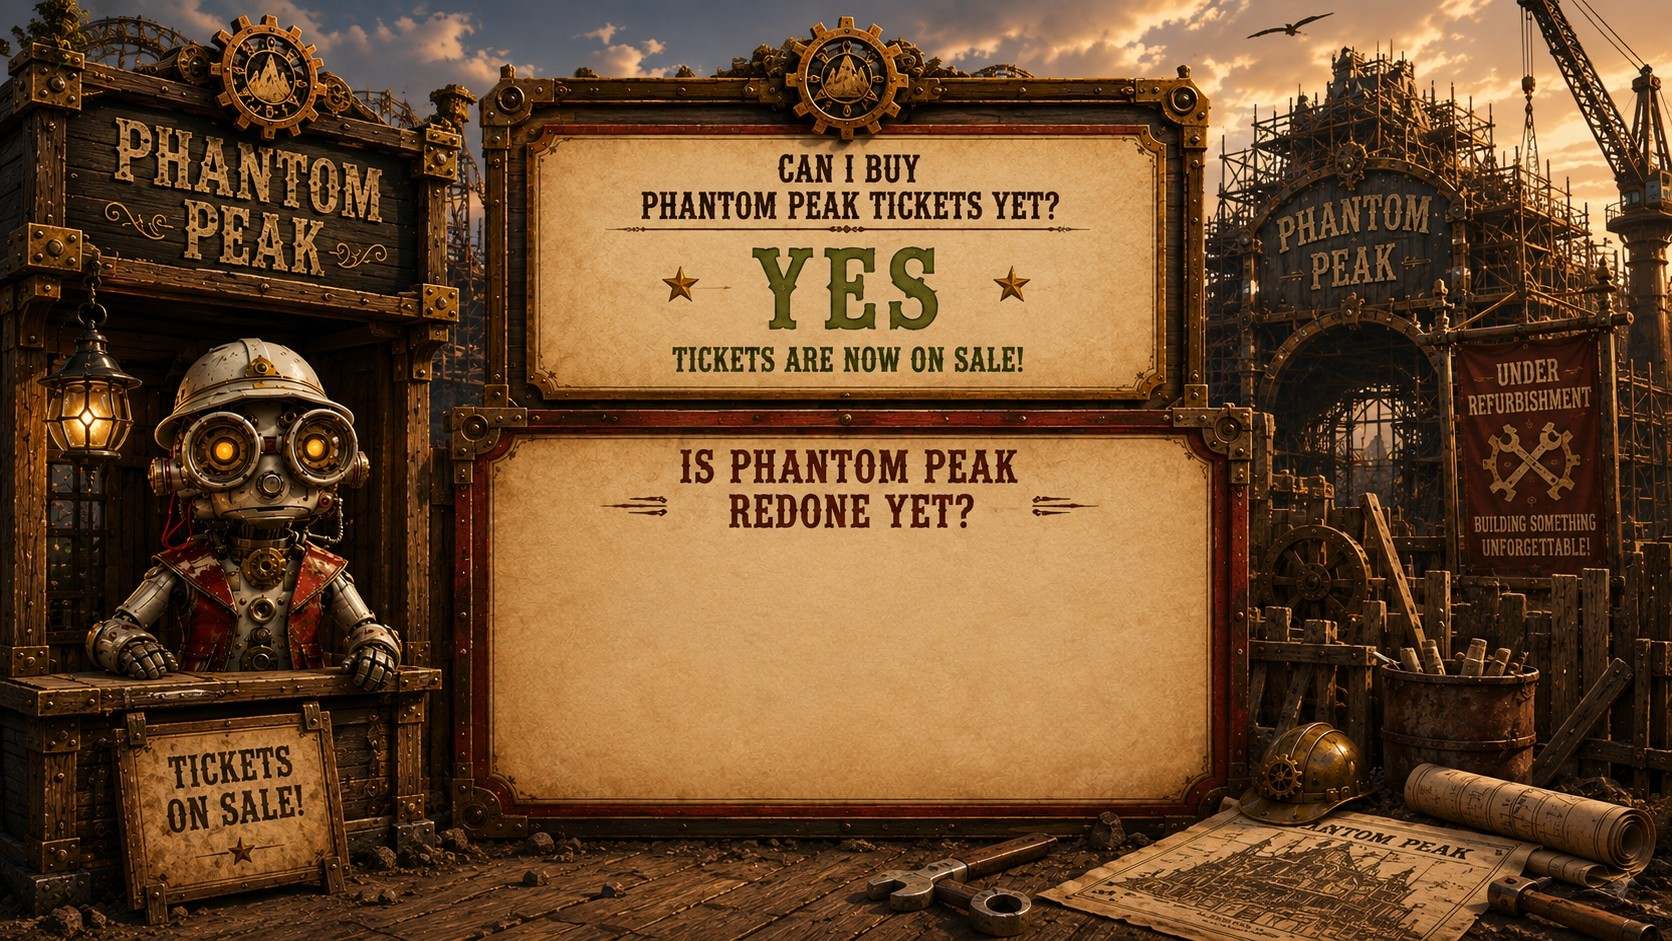
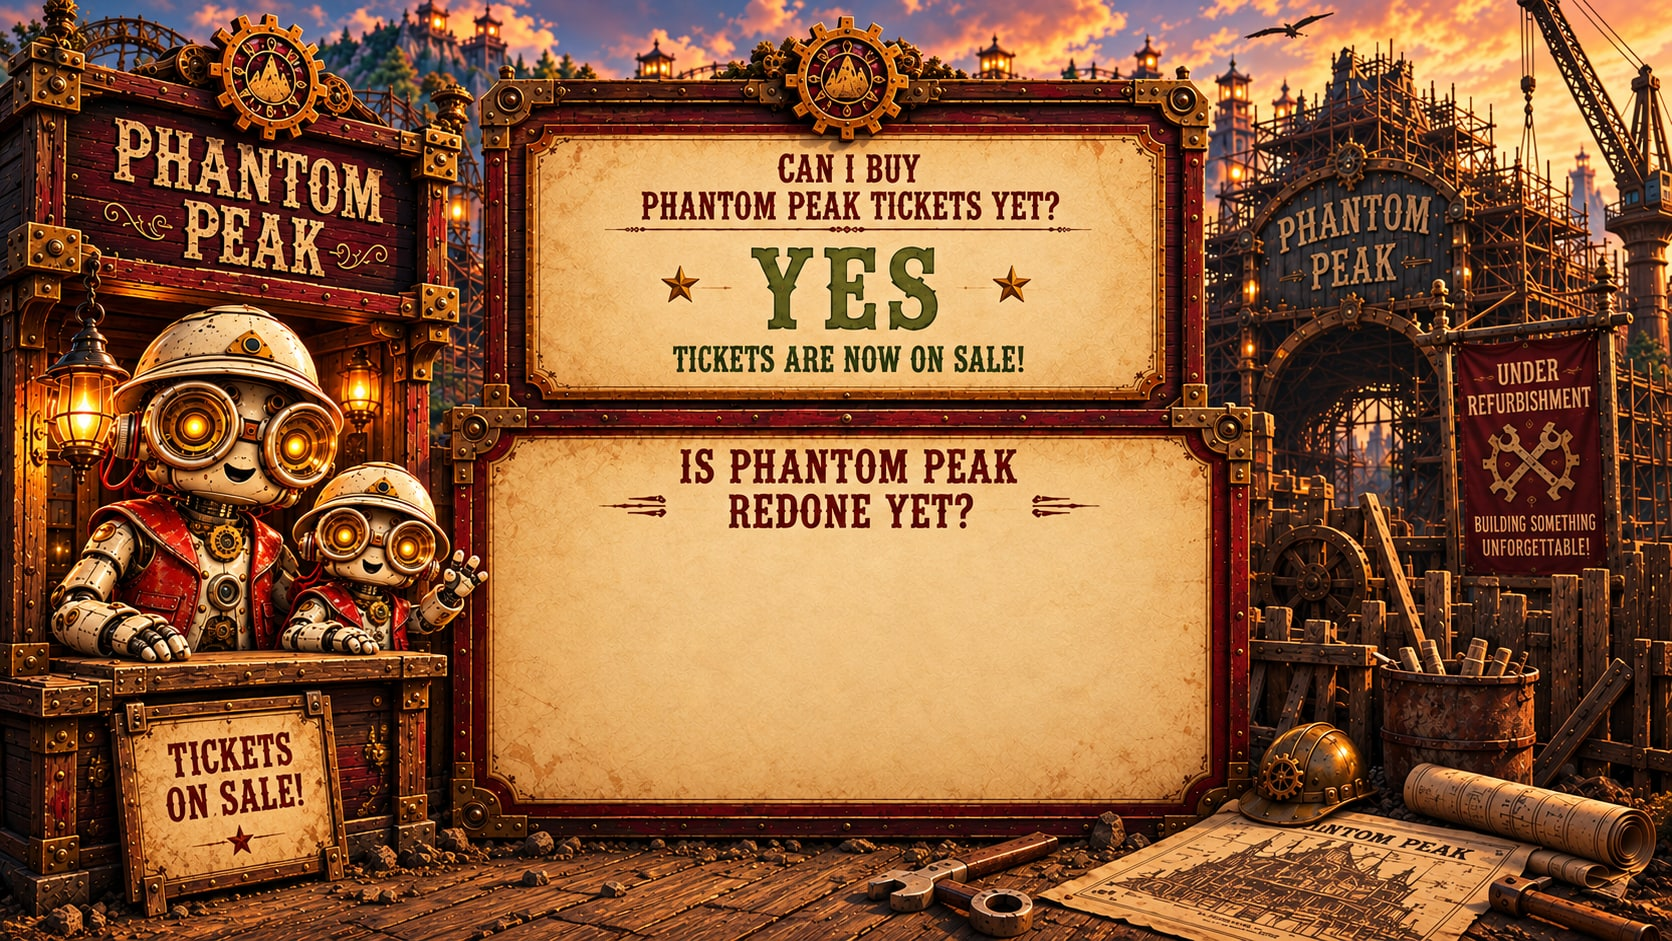
Refresh Countdown artwork with Jonabot and Jonabot Jr

diff --git a/index.html b/index.html
@@ -1155,13 +1155,13 @@
     <div id="ticketPhase">
     <section class="hero-wrap" aria-label="Jonabot ticket office">
       <picture>
-        <source media="(orientation: portrait)" srcset="Assets/booth-portrait.webp" type="image/webp">
-        <source media="(orientation: portrait)" srcset="Assets/booth-portrait.jpg">
-        <source srcset="Assets/booth-landscape.webp" type="image/webp">
+        <source media="(orientation: portrait)" srcset="Assets/booth-portrait.webp?v=2" type="image/webp">
+        <source media="(orientation: portrait)" srcset="Assets/booth-portrait.jpg?v=2">
+        <source srcset="Assets/booth-landscape.webp?v=2" type="image/webp">
         <img
           class="hero"
-          src="Assets/booth-landscape.jpg"
-          alt="Jonabot standing in a steampunk Phantom Peak ticket office beside a large parchment ticket sign."
+          src="Assets/booth-landscape.jpg?v=2"
+          alt="Jonabot and Jonabot Jr at the Phantom Peak ticket office beside a large parchment ticket sign."
         >
       </picture>
 
@@ -1221,11 +1221,11 @@
     <section id="refurbPhase" class="refurb-phase" hidden aria-label="Phantom Peak refurbishment countdown">
       <div class="refurb-hero">
         <picture>
-          <source media="(orientation: portrait)" srcset="Assets/refurb-portrait.webp" type="image/webp">
-          <source media="(orientation: portrait)" srcset="Assets/refurb-portrait.jpg">
-          <source srcset="Assets/refurb-landscape.webp" type="image/webp">
-          <img class="refurb-art" src="Assets/refurb-landscape.jpg"
-               alt="Jonabot at the Phantom Peak ticket booth beside refurbishment signs and a large reopening notice board.">
+          <source media="(orientation: portrait)" srcset="Assets/refurb-portrait.webp?v=2" type="image/webp">
+          <source media="(orientation: portrait)" srcset="Assets/refurb-portrait.jpg?v=2">
+          <source srcset="Assets/refurb-landscape.webp?v=2" type="image/webp">
+          <img class="refurb-art" src="Assets/refurb-landscape.jpg?v=2"
+               alt="Jonabot and Jonabot Jr at the Phantom Peak ticket booth beside refurbishment signs and a large reopening notice board.">
         </picture>
 
         <div class="refurb-live" aria-live="polite">
